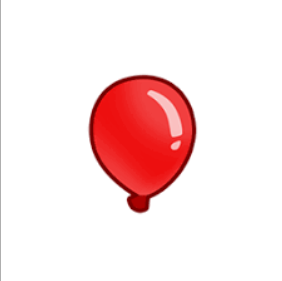
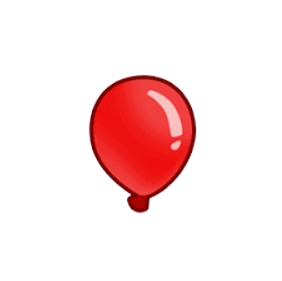
Adição de ataque, projéteis e imagens
Mecânica de ataque das torre completa, mecânica dos projéteis quase completa e melhora das imagens

diff --git a/Enemy.py b/Enemy.py
@@ -6,37 +6,39 @@ class Enemy:
     health = None
     image = None
     speed = None
+    track_length = None
 
     def __init__(self):
         pass
 
     def movement(self, screen):
         self.aux = self.aux + 1
-        if self.aux * self.speed <= 225:
+        self.track_length = self.aux * self.speed
+        if self.track_length <= 225:
             self.x = self.x + self.speed
-        elif 225 < self.aux * self.speed <= 340:
+        elif 225 < self.track_length <= 340:
             self.y = self.y - self.speed
-        elif 340 < self.aux * self.speed <= 425:
+        elif 340 < self.track_length <= 425:
             self.x = self.x - self.speed
-        elif 425 < self.aux * self.speed <= 730:
+        elif 425 < self.track_length <= 730:
             self.y = self.y + self.speed
-        elif 730 < self.aux * self.speed <= 810:
+        elif 730 < self.track_length <= 810:
             self.x = self.x - self.speed
-        elif 810 < self.aux * self.speed <= 920:
+        elif 810 < self.track_length <= 920:
             self.y = self.y - self.speed
-        elif 920 < self.aux * self.speed <= 1145:
+        elif 920 < self.track_length <= 1145:
             self.x = self.x + self.speed
-        elif 1145 < self.aux * self.speed <= 1280:
+        elif 1145 < self.track_length <= 1280:
             self.y = self.y - self.speed
-        elif 1280 < self.aux * self.speed <= 1340:
+        elif 1280 < self.track_length <= 1340:
             self.x = self.x + self.speed
-        elif 1340 < self.aux * self.speed <= 1540:
+        elif 1340 < self.track_length <= 1540:
             self.y = self.y + self.speed
-        elif 1540 < self.aux * self.speed <= 1680:
+        elif 1540 < self.track_length <= 1680:
             self.x = self.x - self.speed
-        elif 1540 < self.aux * self.speed <= 1690:
+        elif 1540 < self.track_length <= 1690:
             self.x = self.x - self.speed
-        elif 1690 < self.aux * self.speed <= 1815:
+        elif 1690 < self.track_length <= 1815:
             self.y = self.y + self.speed
 
         screen.blit(self.image, (self.x, self.y))

diff --git a/main.py b/main.py
@@ -46,13 +46,13 @@ class Game:
                 pos = pygame.mouse.get_pos()
                 pos = (pos[0] - 15, pos[1] - 15)
                 if self.hold_image == 1:
-                    super_monkey = SuperMonkey()
-                    super_monkey.pos = pos
-                    self.tower_instances.append(super_monkey)
-                if self.hold_image == 2:
                     dart_monkey = DartMonkey()
                     dart_monkey.pos = pos
                     self.tower_instances.append(dart_monkey)
+                if self.hold_image == 2:
+                    super_monkey = SuperMonkey()
+                    super_monkey.pos = pos
+                    self.tower_instances.append(super_monkey)
                 self.hold_image = 0
 
             if event.type == pygame.KEYDOWN:
@@ -76,30 +76,29 @@ class Game:
 
             self.handle_events()
 
-            if i % 200 == 0:
+            if i % 100 == 0:
                 instance = RedBalloon()
                 self.enemy_instances.append(instance)
 
-            if i % 400 == 0:
+            if i % 200 == 0:
                 instance = BlueBalloon()
                 self.enemy_instances.append(instance)
 
-            for ins in self.enemy_instances:
-                ins.movement(self.screen)
-                if ins.detect_projectile():
-                    ins.take_damage()
+            for enemy in self.enemy_instances:
+                enemy.movement(self.screen)
+                if enemy.detect_projectile():
+                    enemy.take_damage()
                     self.money = self.money + 1
 
-            for ins in self.tower_instances:
-                ins.enemy_in_range(self.enemy_instances)
-                ins.draw(self.screen)
+            for tower in self.tower_instances:
+                tower.attack(self.enemy_instances)
+                tower.draw(self.screen)
 
             self.health_money_icons(self.screen)
 
             i = i + 1
             pygame.display.update()
 
-teste = 0
 
 game = Game()
 game.loop()

diff --git a/Tower.py b/Tower.py
@@ -1,5 +1,6 @@
 import math
 from math import sqrt
+from Projectile import Projectile
 
 
 class Tower:
@@ -9,28 +10,48 @@ class Tower:
     pos = (0, 0)
     image = None
     projectiles = []
+    cooldown = 101
 
     def __init__(self):
         pass
 
     def enemy_in_range(self, enemy_instances):
-        min_distance = math.inf
+        # min_distance = math.inf
+        track_length = 0
         x = 0
         y = 0
         for enemy in enemy_instances:
             distance = sqrt((enemy.x - self.pos[0])**2 + (enemy.y - self.pos[1])**2)
+            """
             if distance <= self.range:
                 if distance < min_distance:
                     x = enemy.x
                     y = enemy.y
+            """
+            if distance <= self.range:
+                if enemy.track_length >= track_length:
+                    track_length = enemy.track_length
+                    x = enemy.x
+                    y = enemy.y
+
         return x, y
 
     def attack(self, enemy_instances):
-        (x, y) = self.enemy_in_range(self, enemy_instances)
-        if (x, y) == (0, 0):
+        self.cooldown = self.cooldown + self.attack_speed
+        if self.cooldown <= 100:
             pass
         else:
-            pass
+            self.cooldown = 0
+            (x, y) = self.enemy_in_range(enemy_instances)
+            if (x, y) == (0, 0):
+                pass
+            else:
+                self.projectiles.append(Projectile(x, y, self.pos[0], self.pos[1]))
+                self.projectiles = self.projectiles.copy()
 
     def draw(self, screen):
         screen.blit(self.image, self.pos)
+        for projectile in self.projectiles:
+            projectile.x = projectile.x + projectile.x_speed
+            projectile.y = projectile.y + projectile.y_speed
+            screen.blit(projectile.image, (projectile.x, projectile.y))

diff --git a/Projectile.py b/Projectile.py
@@ -1,8 +1,26 @@
+import math
+
+import pygame
+from math import sqrt, asin
+
+
 class Projectile:
     x = None
     y = None
     x_speed = None
     y_speed = None
+    image = None
+    velocity_constant = 1.8
 
-    def __init__(self):
-        pass
+    def __init__(self, enemy_x, enemy_y, tower_x, tower_y):
+        image = pygame.image.load("images/projectile.png")
+        image.convert()
+        image = pygame.transform.scale(image, (25, 25))
+        self.image = image
+        self.x = tower_x
+        self.y = tower_y
+
+        distance = sqrt((enemy_x - tower_x)**2 + (enemy_y - tower_y)**2)
+        self.image = pygame.transform.rotate(self.image, asin((enemy_x - tower_x) / distance) * 180 / math.pi + 135)
+        self.x_speed = self.velocity_constant * ((enemy_x - tower_x) / distance)
+        self.y_speed = self.velocity_constant * ((enemy_y - tower_y) / distance)

diff --git a/SuperMonkey.py b/SuperMonkey.py
@@ -5,10 +5,10 @@ from Tower import Tower
 class SuperMonkey(Tower):
 
     def __init__(self):
-        image = pygame.image.load("images/tower.png")
+        image = pygame.image.load("images/tower2.png")
         image.convert()
         image = pygame.transform.scale(image, (40, 40))
         self.image = image
         self.damage = 1
-        self.attack_speed = 1
-        self.range = 30
+        self.attack_speed = 4
+        self.range = 125

diff --git a/DartMonkey.py b/DartMonkey.py
@@ -5,10 +5,10 @@ from Tower import Tower
 class DartMonkey(Tower):
 
     def __init__(self):
-        image = pygame.image.load("images/tower2.png")
+        image = pygame.image.load("images/tower.png")
         image.convert()
         image = pygame.transform.scale(image, (40, 40))
         self.image = image
         self.damage = 1
         self.attack_speed = 1
-        self.range = 30
+        self.range = 75

diff --git a/RedBalloon.py b/RedBalloon.py
@@ -8,10 +8,10 @@ class RedBalloon(Enemy):
         self.name = 'Red Ballon'
         image = pygame.image.load("images/enemy.png")
         image.convert()
-        image = pygame.transform.scale(image, (40, 40))
+        image = pygame.transform.scale(image, (55, 55))
         self.image = image
         self.health = 1
-        self.speed = 1
+        self.speed = 0.8
         self.area = 1
         
     

diff --git a/BlueBalloon.py b/BlueBalloon.py
@@ -10,4 +10,4 @@ class BlueBalloon(Enemy):
         image = pygame.transform.scale(image, (40, 40))
         self.image = image
         self.health = 2
-        self.speed = 1.5
+        self.speed = 1
